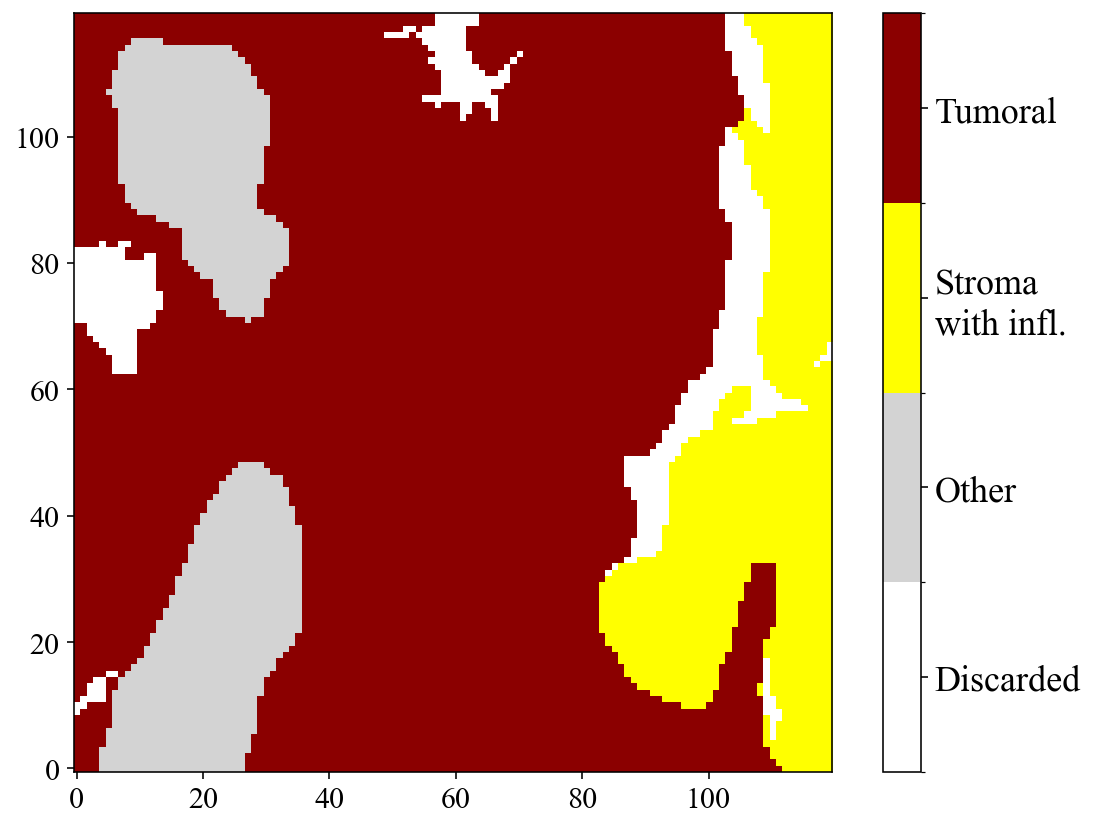
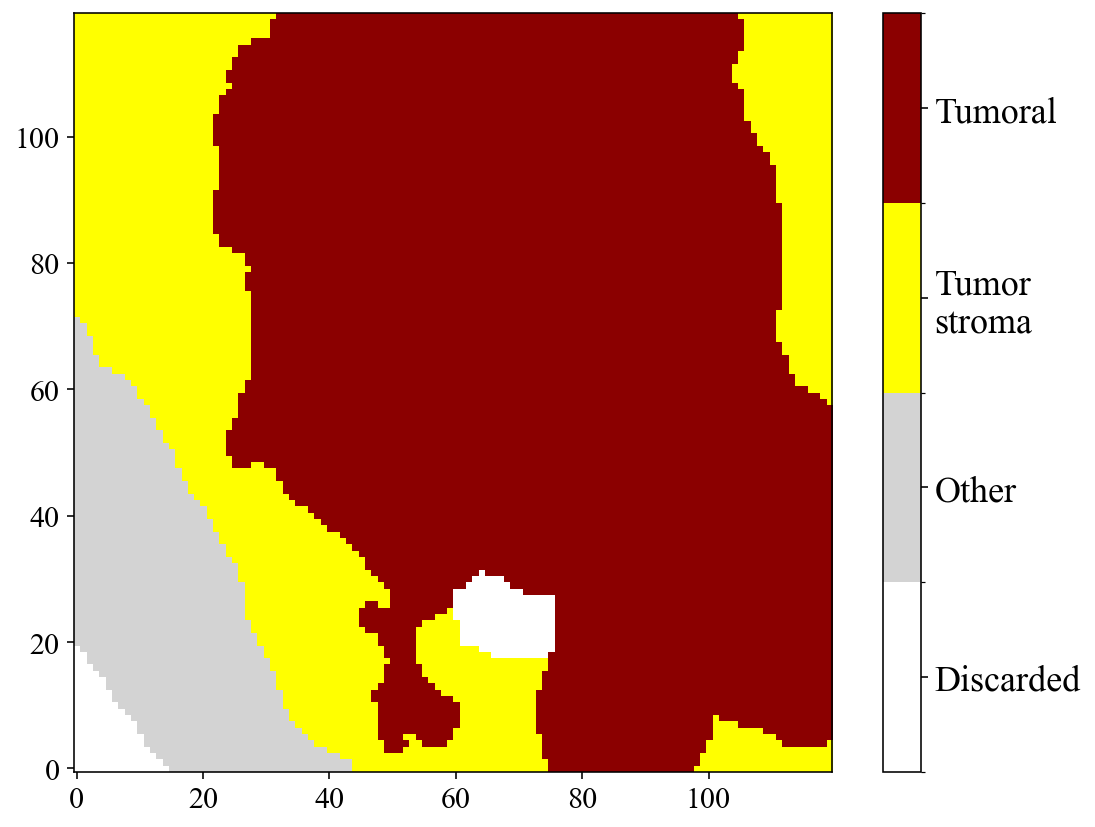
all chapters: review of the figures

Changed region(s): [[0.0621, 0.0, 0.7763, 0.9371], [0.8384, 0.3325, 0.9626, 0.4232], [0.3416, 0.0, 0.4658, 0.1511]]

diff --git a/Chapters/Ch_5.tex b/Chapters/Ch_5.tex
@@ -241,6 +241,8 @@ The curves for the single-class problem, on the other hand, improved regularly i
         \hline
         Precision & \(0.761\pm0.069\) & \(0.893\pm0.022\) \\
         \hline
+        F1-score & \(0.744\pm0.068\) & \(0.818\pm0.046\) \\
+        \hline
     \end{tabular}
     \caption{Mean and standard deviation, across the 5 cross-validation folds, of the main evaluation metrics for the two problems.}
     \label{tab:aggregated_metrics}
@@ -254,7 +256,7 @@ For a more critical analysis, it is important to understand whether errors are e
 
 \Cref{fig:sample_f1_comparison} shows the \textit{F1-score}, which combines \textit{precision} and \textit{recall}, calculated by partitioning the test set pixels by sample and comparing model predictions with the actual labels for each group. A high \textit{F1} means that the model recognises the \textit{tumour} class well within the same sample. On the contrary, a low value indicates that the specific sample is difficult and the prediction contains many \textit{false positives}, \textit{false negatives}, or both.
 
-First of all, the result of this comparison confirms what has already been observed in \Cref{sec:aggregated_classification_results}, namely that the macro-class problem is more complicated and unstable because it introduces greater intra-class heterogeneity, with an average \textit{F1} per sample of \(0.70\), compared with \(0.78\) for the single-class problem.
+First of all, the result of this comparison confirms what has already been observed in \Cref{sec:aggregated_classification_results}, namely that the macro-class problem is more complicated and unstable because it introduces greater intra-class heterogeneity, with an average \textit{F1} per sample of \(0.704\), compared with \(0.792\) for the single-class problem.
 Some of the most difficult classified samples in the \textit{tumour} vs \textit{healthy} experiment improve in the \textit{tumour} vs \textit{stroma} problem. The most obvious case is \(3535\_019\) which goes from \textit{F1} approximately \(0.43\) to about \(0.77\) between the two experiments. This supports the thesis that the difficulty in predictions is closely linked to the definition of the negative class.
 
 VALORI DA CONTROLLARE
@@ -276,8 +278,6 @@ Furthermore, it is not excluded that, in some cases, a very poor performance on 
     \label{fig:sample_f1_comparison}
 \end{figure}
 
-GRAFICO DA SOSTITUIRE
-
 
 \section{Effect of spatial smoothing}
 \label{sec:effect_spatial_smoothing}
@@ -295,51 +295,51 @@ The comparison of raw and smoothed results for both binary problems, presented i
 
 \begin{table}[htbp]
     \centering
-    \caption{Result of spatial post-processing with different kernel sizes on \textit{AUC}, \textit{TPR} and \textit{TNR}. VALORI DA CAMBIARE}
-    \label{tab:smoothing_heatmap}
-    \begin{tabular}{c c c c c c c}
+    \begin{tabular}{| c | *{3}{>{\centering\arraybackslash}m{1.3cm}} | *{3}{>{\centering\arraybackslash}m{1.3cm}} |}
         \hline
-        & \multicolumn{3}{c}{\textit{tumour} vs. \textit{healthy}} 
-        & \multicolumn{3}{c}{\textit{tumour} vs. \textit{tumour stroma}} \\
+        & \multicolumn{3}{|c|}{\textit{tumor} vs. \textit{healthy}}
+        & \multicolumn{3}{c|}{\textit{tumor} vs. \textit{tumor stroma}} \\
         \hline
         Kernel size & \textit{AUC} & \textit{TPR} & \textit{TNR} & \textit{AUC} & \textit{TPR} & \textit{TNR} \\
         \hline
-        No smoothing 
-        & \cellcolor{pastelblue1}0.7745 & \cellcolor{pastelblue1}0.7419 & \cellcolor{pastelblue1}0.6688
-        & \cellcolor{pastelblue1}0.8154 & \cellcolor{pastelblue1}0.7623 & \cellcolor{pastelblue3}0.7068 \\
-        
+        No smoothing
+        & \cellcolor{pastelblue1}0.799 & \cellcolor{pastelblue1}0.738 & \cellcolor{pastelblue1}0.712
+        & \cellcolor{pastelblue1}0.836 & \cellcolor{pastelblue1}0.761 & \cellcolor{pastelblue1}0.749 \\
+
         \(3 \times 3\)
-        & \cellcolor{pastelblue3}0.8269 & \cellcolor{pastelblue3}0.7914 & \cellcolor{pastelblue4}0.7029
-        & \cellcolor{pastelblue3}0.8688 & \cellcolor{pastelblue3}0.8167 & \cellcolor{pastelblue4}0.7343 \\
-        
+        & \cellcolor{pastelblue2}0.851 & \cellcolor{pastelblue2}0.789 & \cellcolor{pastelblue3}0.758
+        & \cellcolor{pastelblue2}0.892 & \cellcolor{pastelblue2}0.811 & \cellcolor{pastelblue4}0.787 \\
+
         \(5 \times 5\)
-        & \cellcolor{pastelblue4}0.8373 & \cellcolor{pastelblue4}0.7997 & \cellcolor{pastelblue5}0.7134
-        & \cellcolor{pastelblue4}0.8797 & \cellcolor{pastelblue3}0.8298 & \cellcolor{pastelblue5}0.7383 \\
-        
+        & \cellcolor{pastelblue3}0.862 & \cellcolor{pastelblue3}0.797 & \cellcolor{pastelblue5}0.770
+        & \cellcolor{pastelblue4}0.904 & \cellcolor{pastelblue3}0.822 & \cellcolor{pastelblue5}0.795 \\
+
         \(10 \times 10\)
-        & \cellcolor{pastelblue5}0.8417 & \cellcolor{pastelblue5}0.8047 & \cellcolor{pastelblue5}0.7114
-        & \cellcolor{pastelblue5}0.8824 & \cellcolor{pastelblue4}0.8423 & \cellcolor{pastelblue3}0.7166 \\
-        
+        & \cellcolor{pastelblue5}0.866 & \cellcolor{pastelblue5}0.801 & \cellcolor{pastelblue4}0.768
+        & \cellcolor{pastelblue5}0.907 & \cellcolor{pastelblue4}0.831 & \cellcolor{pastelblue3}0.776 \\
+
         \(15 \times 15\)
-        & \cellcolor{pastelblue4}0.8376 & \cellcolor{pastelblue5}0.8033 & \cellcolor{pastelblue3}0.6984
-        & \cellcolor{pastelblue4}0.8757 & \cellcolor{pastelblue5}0.8473 & \cellcolor{pastelblue2}0.6888 \\
+        & \cellcolor{pastelblue4}0.864 & \cellcolor{pastelblue5}0.801 & \cellcolor{pastelblue2}0.756
+        & \cellcolor{pastelblue3}0.899 & \cellcolor{pastelblue5}0.833 & \cellcolor{pastelblue1}0.749 \\
         \hline
     \end{tabular}
+    \caption{Results of spatial post-processing with different kernel sizes on \textit{AUC}, \textit{TPR} and \textit{TNR}.}
+    \label{tab:smoothing_heatmap}
 \end{table}
 
 
 More specifically, a result of particular merit is attributed to the \(5 \times 5\) filter. This leads to clearly better predictions than smaller filters, in terms of global metrics.
 Larger kernels tend to increase \textit{tumour} \textit{recall}, which could be desirable based on what was discussed earlier, but at the same time they lead to an overly aggressive imbalance in the confusion matrix by increasing \textit{false positives} and thus reducing the overall reliability of the classifier. This is why, although the 10x10 filter shows a higher \textit{AUC}, it is not the best compromise when evaluated against the \textit{TNR} and would represent an unwise choice.
-The results of applying a too-large filter (\(15 \times 15\)) make it clear that the benefits of smoothing are limited, and that excessively increasing the filter size leads to deterioration, "spreading" the \textit{tumour} class onto the healthy one.
+The results of applying a filter as large as \(15 \times 15\) make clear that the benefits of smoothing are limited, and that excessively increasing the filter size leads to deterioration, "spreading" the \textit{tumour} class onto the healthy one.
 
 \begin{figure}[H]
     \centering
     \subfloat[\textit{tumour} vs. \textit{healthy}.\label{fig:confusion_matrix_tumour_healthy_smoothed}]{
-        \includegraphics[width=0.45\textwidth]{Images/images_ch_5/tumor_healty_smoothed.jpeg}
+        \includegraphics[width=0.45\textwidth]{Images/images_ch_5/tumor_healthy_smoothed.png}
     }
     \hfill
     \subfloat[\textit{tumour} vs. \textit{tumour stroma}.\label{fig:confusion_matrix_tumour_stroma_smoothed}]{
-        \includegraphics[width=0.45\textwidth]{Images/images_ch_5/tumor_troma_smoothed.jpeg}
+        \includegraphics[width=0.45\textwidth]{Images/images_ch_5/tumor_stroma_smoothed.png}
     }
     \caption{Confusion matrices obtained after spatial post-processing with the \(5 \times 5\) smoothing filter. Compared to the raw results shown in \Cref{fig:results_S20_macroclass,fig:results_S10_singleclass} the \textit{TPR} and \textit{TNR} rise.}
     \label{fig:confusion_matrices_smoothed}
@@ -358,7 +358,7 @@ Observing the smoothed prediction maps and comparing them with the raw ones, as 
     \subfloat[Prediction map after \(5 \times 5\) smoothing.\label{fig:prediction_map_smoothed_tumour_stroma}]{
         \includegraphics[width=0.90\textwidth]{Images/images_ch_5/sample_3525_028_map_Map_1_5x5_smoothing.png}
     }
-    \caption{Comparison between raw and smoothed prediction maps for the \textit{tumour} vs. \textit{tumour stroma} experiment. FORSE TAGLIARE IL TITOLO POCO LEGGIBILE}
+    \caption{Comparison between raw and smoothed prediction maps for the \textit{tumour} vs. \textit{healthy} experiment.}
     \label{fig:prediction_maps_raw_smoothed_tumour_stroma}
 \end{figure}
 

diff --git a/Chapters/Ch_4_new.tex b/Chapters/Ch_4_new.tex
@@ -212,9 +212,6 @@ The \textit{tumor} macro-class, which always includes the \textit{tumor (2)} lab
 
 The second approach, using isolated classes, will reduce intra-class variance and allow the model to learn the class-specific patterns, thus improving performance.
 Due to the class imbalance (tumor alone being 46,71\% of the dataset), the classes will not be equal in numerosity anymore, requiring rebalancing by discarding part of the available training data. The model is then trained on a reduced number of spectra. Due to the size of the dataset ($>$1\,000\,000 spectra) and the strong spatial correlation between adjacent pixels, which makes neighbouring spectra highly redundant, the data can be substantially subsampled with little loss of information, provided that spectra from every sample are retained. This reduces the possible choices for \textit{healthy} labels to the most numerous ones, i.e.\ \textit{tumor stroma (6)}, \textit{stroma with inflammation (4)} and \textit{connective tissue (5)} (\Cref{fig:label_distribution}).
-% TODO (optional, for a stronger quantitative claim): validate the subsampling empirically instead of stating it qualitatively.
-% Sweep the training-set fraction (e.g. 5/10/25/50/100%) using the SUBSAMPLE knob in scripts/train.py of the VibraAI repo, keeping the leakage-free per-patient split, and plot AUC/accuracy vs fraction.
-% If performance stays flat down to a small fraction, replace the sentence above with the measured number (e.g. "down to X\% with no significant performance loss") and add the plot as a figure.
 
 Regarding discernability, the most similar tissues are also the most clinically confusable. Being able to discriminate would then be the most valuable result. The three possible healthy classes show a comparable degree of similarity to the tumor (\Cref{fig:spectra_comparison_similar}); each therefore constitutes an equally valid choice, with no class being a priori better suited than the rest from a separability standpoint.
 
@@ -230,14 +227,14 @@ Two binary problems are therefore taken forward to the classification stage. The
 
 \begin{figure}[H]
     \centering
-    \subfloat[\textit{Tumor} vs. \textit{healthy} classification (1st approach).\label{fig:heatmap-tumor-vs-healthy}]{
+    \subfloat[\textit{Tumor} vs.\textit{healthy} classification.\label{fig:heatmap-tumor-vs-healthy}]{
         \includegraphics[width=0.45\textwidth]{Images/images_ch_4/heatmap_tumor_vs_healthy.png}
     }
     \hfill
-    \subfloat[\textit{Tumor} vs. \textit{stroma with inflammation} classification (2nd approach).\label{fig:heatmap-tumor-vs-stroma}]{
+    \subfloat[\textit{Tumor} vs.\textit{tumor stroma} classification.\label{fig:heatmap-tumor-vs-stroma}]{
         \includegraphics[width=0.45\textwidth]{Images/images_ch_4/heatmap_tumor_vs_stroma.png}
     }
-    \caption{Maps with highlighted labels based on classification approach. \textit{Stroma with inflammation} is shown instead of \textit{tumor stroma} (the actual training target) for illustrative purposes, because no map in the dataset contained \textit{tumor stroma} together with other labels.}
+    \caption{Maps with highlighted labels based on classification approach. As is often the case, \textit{tumor stroma} is located at the boundary of the \textit{tumoral} region.}
     \label{fig:heatmap_classification}
 \end{figure}
 
@@ -253,18 +250,18 @@ The classification stage was based on three model architectures (S, M, L) that v
     \small
     \begin{tabular}{|l|c|c|c|c|}
         \hline
-        \textbf{Model} & \textbf{Hidden layers} & \textbf{Neurons/layer} & \textbf{Dropout} & \textbf{Output} \\
+        \textbf{Model} & \textbf{Hidden layers} & \textbf{Neurons/layer} & \textbf{Output} \\
         \hline
-        Small (S)  & 2 & 16, 8      & 0.2 (just for first layer) & 1 (sigmoid) \\
-        Medium (M) & 2 & 64, 32      & 0.2 & 1 (sigmoid) \\
-        Large (L)  & 3 & 128, 64, 16 & 0.2  & 1 (sigmoid) \\
+        Small (S)  & 2 & 16, 8 & 1 (sigmoid) \\
+        Medium (M) & 2 & 64, 32 & 1 (sigmoid) \\
+        Large (L)  & 3 & 128, 64, 16 & 1 (sigmoid) \\
         \hline
     \end{tabular}
     \caption{Architecture of the three model sizes (S, M, L). All hidden layers use ReLU activation (\cref{subsec:activation_functions}); the output layer is a single sigmoid unit for binary classification (\cref{subsec:bce}).}
     \label{tab:architectures}
 \end{table}
 
-The models all consisted of \textit{dense} (fully connected) layers, with a \textit{dropout} rate of 0.2 to reduce overfitting, except for the S model, where \textit{dropout} was applied just to the first layer due to the small size of the network. \textit{Dropout} is a regularization technique such that at every training step, every neuron in a dropout layer has a probability $p=0.2$ of being temporarily ignored, though it may be active during the next step. Neurons trained with \textit{dropout} cannot co-adapt with their neighboring neurons; they have to be as useful as possible on their own. They also cannot rely excessively on just a few input neurons and must pay attention to each of their input neurons \cite{geron2022hands}.
+The models all consisted of \textit{dense} (fully connected) layers.
 
 All the hidden layers used ReLU as activation functions and the number of input units is set to the number of retained PC components (itself a hyperparameter, selected jointly with the architecture, see \cref{sec:training}), while the output neurons had a sigmoid activation.
 
